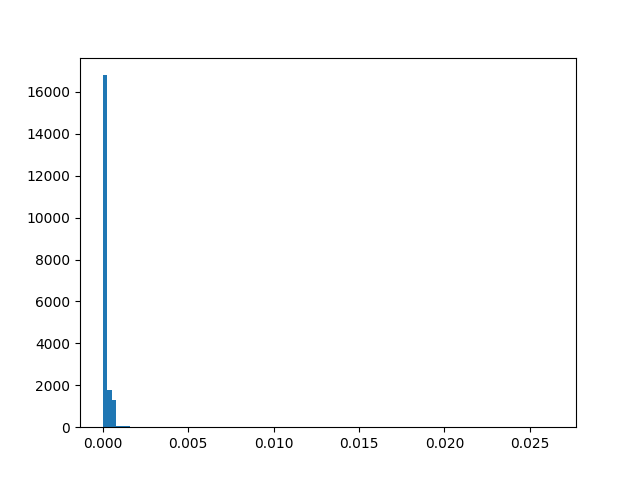
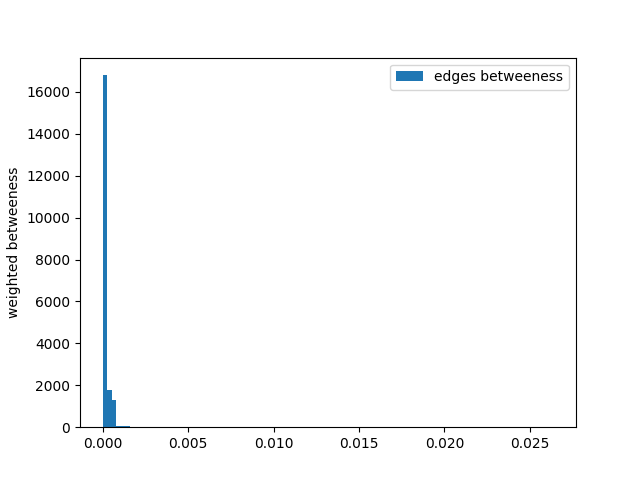
Fix analysis plots

Changed region(s): [[0.5938, 0.125, 0.875, 0.1875], [0.0, 0.3438, 0.0312, 0.6562]]

diff --git a/LightningGraph/LN_simple_plot.py b/LightningGraph/LN_simple_plot.py
@@ -4,6 +4,7 @@ from matplotlib import pyplot as plt
 import networkx as nx
 from collections import Counter
 def basic_graph_statistics(graph, plot_dir='basic_statistics_figs'):
+	# TODO:  rewrite neatly or inspire from seaborn code of ayeletm02
 	os.makedirs(plot_dir, exist_ok=True)
 	nodes_total_capacities = []
 	edge_betwenness = []
@@ -19,14 +20,20 @@ def basic_graph_statistics(graph, plot_dir='basic_statistics_figs'):
 		edge_capacities += [edge['capacity']]
 
 	plt.hist(nodes_total_capacities, label='nodes total capacities', bins = 100)
+	plt.ylabel("total capacity")
+	plt.legend()
 	plt.savefig(os.path.join(plot_dir, "nodes_total_capacities.png"))
 	plt.clf()
 
 	plt.hist(edge_betwenness, label='edges betweeness', bins = 100)
+	plt.ylabel("weighted betweeness")
+	plt.legend()
 	plt.savefig(os.path.join(plot_dir, "edge_betwenness.png"))
 	plt.clf()
 
 	plt.hist(edge_capacities, label='edges capacities', bins = 100)
+	plt.ylabel("capacity")
+	plt.legend()
 	plt.savefig(os.path.join(plot_dir, "edge_capacities.png"))
 	plt.clf()
 

diff --git a/LightningGraph/README.md b/LightningGraph/README.md
@@ -6,10 +6,14 @@ graph.
 
 ## Basic visatlization
 Some basic stats visualization for one of the dumps from ayeletm02:
-- edge_capacities: <img src=basic_statistics_figs/edge_capacities.png width="400">
-- nodes_total_capacities: <img src=basic_statistics_figs/nodes_total_capacities.png width="400">
-- edge_betwenness: <img src=basic_statistics_figs/edge_betwenness.png width="400">
-- nodes_routing_types: <img src=basic_statistics_figs/nodes_routing_types.png.png width="400">
+- edge_capacities
+  <img src=basic_statistics_figs/edge_capacities.png width="400">
+- nodes_total_capacities
+  <img src=basic_statistics_figs/nodes_total_capacities.png width="400">
+- edge_betwenness
+  <img src=basic_statistics_figs/edge_betwenness.png width="400">
+- nodes_routing_types
+  <img src=basic_statistics_figs/nodes_routing_types.png.png width="400">
 
 Issues:
 * Betweeness computation is very slow (100 secs for ~3000 nodes and ~20k edges)
